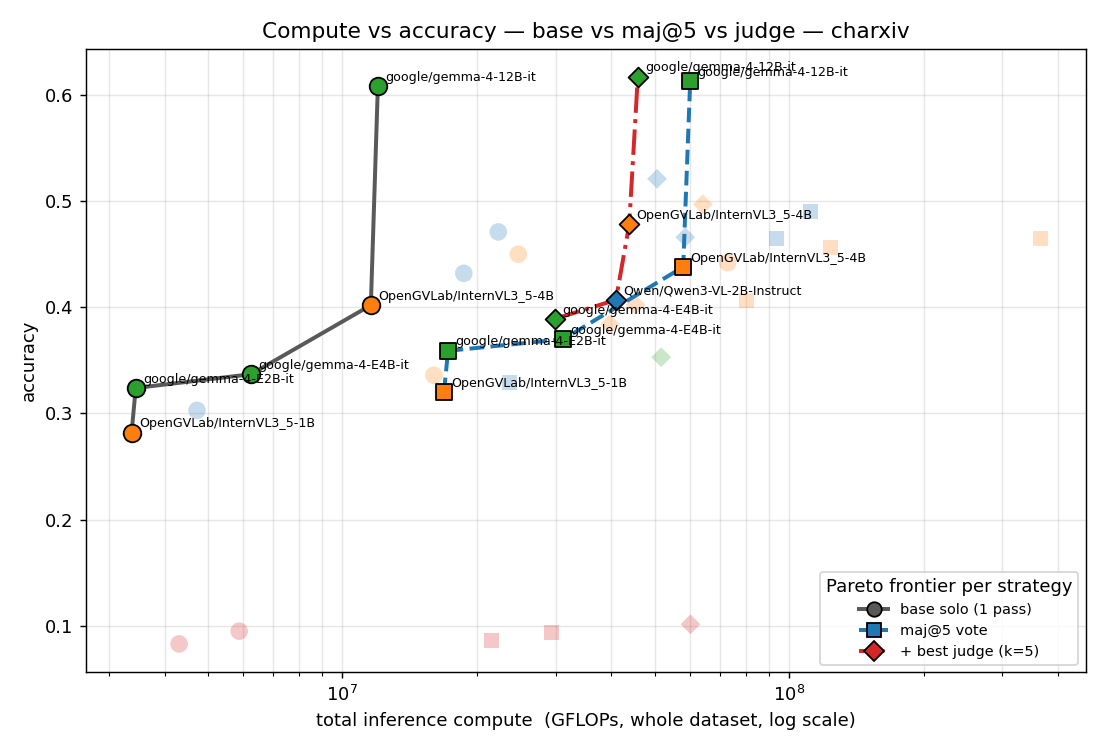
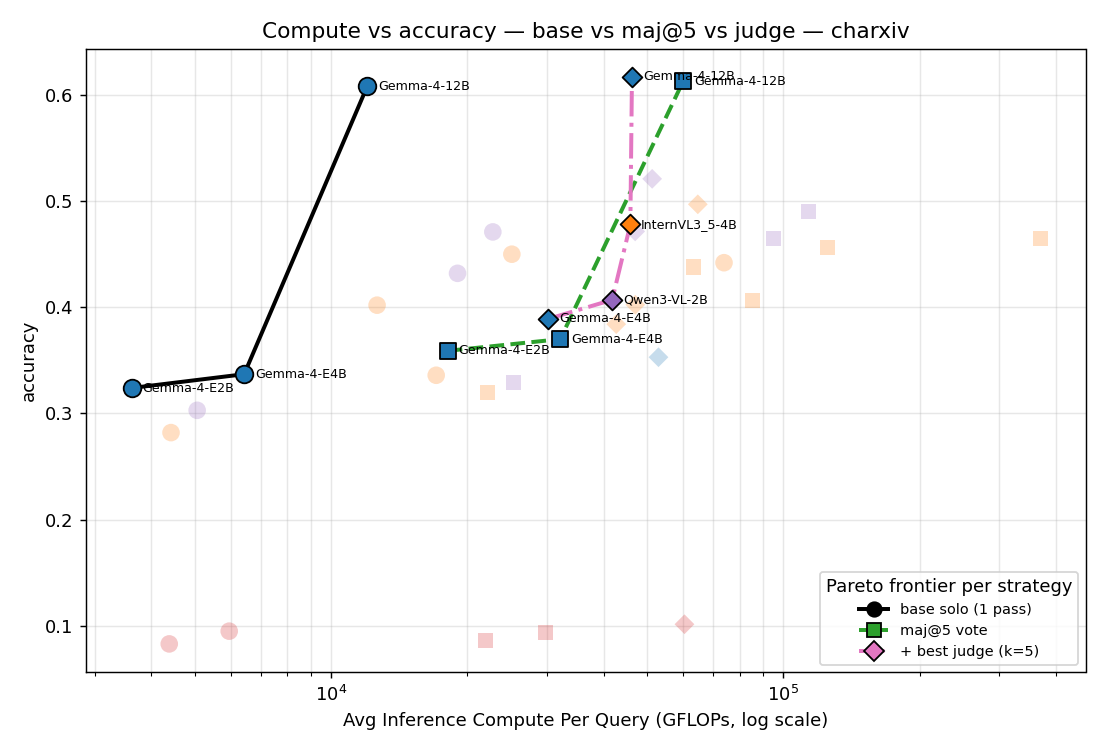
update compute pareto curves

diff --git a/vlm/vision_flops.py b/vlm/vision_flops.py
@@ -1,0 +1,192 @@
+#!/usr/bin/env python3
+"""Vision-encoder FLOP accounting, to complement the LLM-side `solver_gflops`.
+
+The existing compute number prices every token (text + image-placeholder + generated) at
+`2 * llm_params_B`. That captures the LLM decoder's cost of *attending over* image tokens, but
+NOT the vision encoder's own forward pass, which runs the raw image patches through a ViT before
+the LLM ever sees them. Ignoring it biases the comparison against models with a big encoder or
+aggressive image tiling (many patches) relative to their LLM. This module adds that term:
+
+    vision_gflops = vit_params_B * num_vit_patches * 2      (per image, per encode)
+
+Two ingredients, both measured from the *actual* local artifacts (no hand-typed guesses):
+  * `vit_params(model)`      — summed from the model's safetensors headers (vision tower only).
+  * `patches_per_image(ds)`  — avg ViT sequence length, by running each model's real HF image
+                               processor over a sample of that dataset's images (captures
+                               dynamic-resolution / tiling differences across families).
+
+Results are cached to vlm/result/vision_flops.json so the tradeoff scripts read them cheaply.
+
+Run once to (re)build the cache:  .venv-vllm/bin/python vlm/vision_flops.py
+"""
+import json, os, struct, glob, sys, random
+
+HERE = os.path.dirname(os.path.abspath(__file__))
+CACHE = os.path.join(HERE, "result", "vision_flops.json")
+HF_HUB = os.path.expanduser("~/.cache/huggingface/hub")
+
+# tensor-name substrings that identify the vision *encoder* (exclude the mm projector, which is
+# a small LLM-side adapter, not part of the ViT forward pass we're pricing).
+VIS_MATCH = ("visual", "vision_tower", "vision_model")
+VIS_EXCLUDE = ("projector", "mlp1", "merger")   # merger/projector map ViT->LLM dim, priced LLM-side
+
+# HF repo id per short solver_model key used in MODEL_SIZES (rejection_sampling.py).
+DTYPE_BYTES = {"F32": 4, "F16": 2, "BF16": 2, "F64": 8, "I64": 8, "I32": 4, "I16": 2, "I8": 1,
+               "U8": 1, "BOOL": 1, "F8_E4M3": 1, "F8_E5M2": 1}
+
+
+def _snapshot_dir(repo_id):
+    d = os.path.join(HF_HUB, "models--" + repo_id.replace("/", "--"), "snapshots")
+    snaps = sorted(glob.glob(os.path.join(d, "*")))
+    return snaps[-1] if snaps else None
+
+
+def _iter_safetensors_header(path):
+    """Yield (name, dtype, shape) for every tensor in a .safetensors file, reading only the
+    JSON header (no weights loaded)."""
+    with open(path, "rb") as f:
+        n = struct.unpack("<Q", f.read(8))[0]
+        hdr = json.loads(f.read(n))
+    for name, meta in hdr.items():
+        if name == "__metadata__":
+            continue
+        yield name, meta["dtype"], meta["shape"]
+
+
+def vit_params(repo_id):
+    """Total vision-encoder parameter count (in billions) for a local model, from safetensors headers."""
+    snap = _snapshot_dir(repo_id)
+    if not snap:
+        return None
+    files = glob.glob(os.path.join(snap, "*.safetensors"))
+    if not files:
+        return None
+    total = 0
+    for fp in files:
+        for name, _dt, shape in _iter_safetensors_header(fp):
+            if any(m in name for m in VIS_MATCH) and not any(x in name for x in VIS_EXCLUDE):
+                numel = 1
+                for s in shape:
+                    numel *= s
+                total += numel
+    return total / 1e9
+
+
+# ---- patch counting: run the real processor over dataset images -----------------------------
+
+def _count_vit_patches(ip, image):
+    """Number of patches the ViT actually processes for one image, from the image processor
+    output alone (bypasses the full processor's text/image-token validation)."""
+    import numpy as np
+    kw = {}
+    if getattr(ip, "crop_to_patches", None) is False:   # InternVL: reproduce dynamic tiling
+        kw["crop_to_patches"] = True                    # (max_patches uses the processor default)
+    out = ip(images=image, return_tensors="np", **kw)
+    # Qwen family exposes an explicit patch grid.
+    if "image_grid_thw" in out:
+        g = np.array(out["image_grid_thw"]).reshape(-1, 3)
+        return int(g.prod(axis=1).sum())                # t*h*w summed over images
+    pv = np.array(out["pixel_values"])
+    if pv.ndim == 3:                                    # gemma: [crops, num_patches, patch_dim]
+        return int(pv.shape[0] * pv.shape[1])          # already patchified -> patches = crops*npatch
+    if pv.ndim == 5:                                    # [batch, tiles, C, H, W]
+        pv = pv.reshape((-1,) + pv.shape[-3:])
+    if pv.ndim != 4:                                    # [tiles, C, H, W]
+        return None
+    tiles, _c, h, w = pv.shape
+    ps = _patch_size(ip)
+    return int(tiles * (h // ps) * (w // ps))
+
+
+def _patch_size(ip):
+    v = getattr(ip, "patch_size", None)
+    if isinstance(v, int):
+        return v
+    if isinstance(v, dict):                 # some processors store {'height':..,'width':..}
+        return v.get("height", 14)
+    return 14   # CLIP/SigLIP default
+
+
+def patches_per_image(repo_id, image_paths, sample=160, seed=0):
+    """Average ViT patch count per image over a random sample of the given dataset images."""
+    from transformers import AutoImageProcessor
+    from PIL import Image
+    ip = AutoImageProcessor.from_pretrained(repo_id, trust_remote_code=True)
+    rng = random.Random(seed)
+    paths = list(image_paths)
+    rng.shuffle(paths)
+    paths = paths[:sample]
+    counts = []
+    for p in paths:
+        try:
+            img = Image.open(p).convert("RGB")
+            n = _count_vit_patches(ip, img)
+            if n:
+                counts.append(n)
+        except Exception as e:                          # noqa: BLE001
+            print(f"    ! {os.path.basename(p)}: {e}", file=sys.stderr)
+    return sum(counts) / len(counts) if counts else None
+
+
+def _dataset_images(ds):
+    meta = os.path.join(HERE, "..", "data", ds, "metadata.jsonl")
+    root = os.path.dirname(meta)
+    paths = []
+    for line in open(meta):
+        r = json.loads(line)
+        paths.append(os.path.abspath(os.path.join(root, r["image"])))
+    return paths
+
+
+def load_cache():
+    if os.path.exists(CACHE):
+        return json.load(open(CACHE))
+    return {}
+
+
+def build(datasets=("charxiv", "countbench")):
+    """Measure vit_params + patches_per_image for every model in MODEL_SIZES; cache to disk."""
+    sys.path.insert(0, HERE)
+    from rejection_sampling import MODEL_SIZES
+    cache = load_cache()
+    imgs = {ds: _dataset_images(ds) for ds in datasets}
+    for repo_id in MODEL_SIZES:
+        rec = cache.get(repo_id, {})
+        if "vit_params_B" not in rec:
+            vp = vit_params(repo_id)
+            rec["vit_params_B"] = vp
+            print(f"[{repo_id}] vit_params = {vp and round(vp,4)} B")
+        rec.setdefault("patches", {})
+        for ds in datasets:
+            if ds in rec["patches"]:
+                continue
+            print(f"[{repo_id}] measuring patches on {ds} ...")
+            try:
+                n = patches_per_image(repo_id, imgs[ds])
+            except Exception as e:                       # noqa: BLE001
+                print(f"    ! processor failed: {e}", file=sys.stderr)
+                n = None
+            rec["patches"][ds] = n
+            print(f"    -> {n and round(n,1)} patches/image")
+        cache[repo_id] = rec
+        os.makedirs(os.path.dirname(CACHE), exist_ok=True)
+        json.dump(cache, open(CACHE, "w"), indent=2)
+    return cache
+
+
+def vision_gflops_total(repo_id, ds, n_problems, cache=None):
+    """Total vision-encoder GFLOPs to encode the whole dataset once (one pass over all images)."""
+    cache = cache or load_cache()
+    rec = cache.get(repo_id)
+    if not rec:
+        return None
+    vp = rec.get("vit_params_B")
+    pat = (rec.get("patches") or {}).get(ds)
+    if vp is None or pat is None:        # vp == 0.0 is valid: unified model, no separate ViT
+        return None
+    return vp * pat * 2 * n_problems
+
+
+if __name__ == "__main__":
+    build()
+    print(f"\nwrote {CACHE}")

diff --git a/vlm/combined_tradeoff.py b/vlm/combined_tradeoff.py
@@ -11,7 +11,7 @@ The three are joined per model; the red line is the Pareto frontier over everyth
 Writes report/figures/tradeoff/{ds}_combined_tradeoff.png (+ an 'avg'). Run:
   .venv/bin/python vlm/combined_tradeoff.py
 """
-import os, sys
+import os, sys, json, glob
 import matplotlib
 matplotlib.use("Agg")
 import matplotlib.pyplot as plt
@@ -27,11 +27,22 @@ FIGDIR = "report/figures/tradeoff"
 name = T.name
 
 
+def n_queries(ds):
+    """number of problems (queries) in the dataset, from any run's metadata."""
+    for f in glob.glob(f"vlm/result/self_consistency/{ds}/*/metrics.json"):
+        md = json.load(open(f)).get("metadata", {})
+        if md.get("n_problems"):
+            return md["n_problems"]
+    return None
+
+
 def collect(ds):
-    """model -> dict(base=(g,a), maj5=(g,a) or None, judge=(g,a) or None)."""
+    """model -> dict(base=(g,a), maj5=(g,a) or None, judge=(g,a) or None).
+    Compute is normalized to per-query GFLOPs (whole-dataset GFLOPs / n_problems)."""
     _, pipes = T.collect(ds)                 # canonical-priced judge pipelines
     best = T.best_judge(pipes)               # solver -> (gflops, acc, verifier)
     maj = MJ.collect(ds)                      # model -> [(compute, acc), ...] k=1..N
+    nq = n_queries(ds) or 1                   # -> per-query average compute
     out = {}
     for m, curve in maj.items():
         base = curve[0]                      # (C[m], maj@1)
@@ -39,23 +50,26 @@ def collect(ds):
         rec = dict(base=base, maj5=maj5, judge=None)
         if m in best:
             rec["judge"] = (best[m][0], best[m][1])
+        for k, v in rec.items():             # whole-dataset GFLOPs -> per-query
+            if v is not None:
+                rec[k] = (v[0] / nq, v[1])
         out[m] = rec
     return out
 
 
 STRAT = [   # key,     marker, size, frontier color, style, legend label
-    # frontier lines kept neutral (dark grey) & distinguished by dash style, so they don't
-    # clash with the fixed family colors (Qwen purple / gemma blue / InternVL orange / llava red)
-    ("base",  "o", 95, "0.15", "-",  "base solo (1 pass)"),
-    ("maj5",  "s", 70, "0.15", "--", "maj@5 vote"),
-    ("judge", "D", 60, "0.15", "-.", "+ best judge (k=5)"),
+    # each strategy's Pareto frontier gets its own line color. These are deliberately chosen to
+    # avoid the family marker palette (Qwen purple / gemma blue / InternVL orange / llava red /
+    # grey) -- black, green, magenta don't collide with any of them. Dash style is kept too.
+    ("base",  "o", 95, "#000000", "-",  "base solo (1 pass)"),
+    ("maj5",  "s", 70, "#2ca02c", "--", "maj@5 vote"),
+    ("judge", "D", 60, "#e377c2", "-.", "+ best judge (k=5)"),
 ]
 FADED, FULL = 0.25, 1.0
 
 
 def render(ds, data, title=None):
     fig, ax = plt.subplots(figsize=(8.5, 5.8))
-    cmap = plt.get_cmap("tab10")
     order = sorted(data, key=lambda m: (R.FAM_ORDER.get(R.family(m), 4), R.size(m)))
 
     # which models sit on each strategy's Pareto frontier
@@ -73,11 +87,10 @@ def render(ds, data, title=None):
                 continue
             on = m in onfr
             ax.scatter(v[0], v[1], s=sz, marker=mk, alpha=FULL if on else FADED,
-                       zorder=5 if on else 3,
-                       color=cmap(R.FAM_ORDER.get(R.family(m), 4)),
+                       zorder=5 if on else 3, color=T.fam_color(m),
                        edgecolor="k" if on else "none")
             if on:                        # label only the models on this frontier
-                ax.annotate(name(m), v, fontsize=7, xytext=(4, 3),
+                ax.annotate(name(m), v, fontsize=7, xytext=(6, 0), va="center",
                             textcoords="offset points", zorder=6)
 
     # draw the three frontier lines
@@ -88,7 +101,7 @@ def render(ds, data, title=None):
         handles.append(Line2D([], [], marker=mk, color=col, ls=ls, mec="k", ms=8, lw=2.2, label=lab))
     ax.legend(handles=handles, fontsize=8, loc="lower right", title="Pareto frontier per strategy")
     ax.set_xscale("log")
-    ax.set_xlabel("total inference compute  (GFLOPs, whole dataset, log scale)")
+    ax.set_xlabel("Avg Inference Compute Per Query (GFLOPs, log scale)")
     ax.set_ylabel("accuracy")
     ax.set_title(title or f"Compute vs accuracy — base vs maj@5 vs judge — {ds}")
     ax.grid(alpha=0.3, which="both")

diff --git a/vlm/compute_tradeoff.py b/vlm/compute_tradeoff.py
@@ -16,15 +16,26 @@ import matplotlib.pyplot as plt
 
 sys.path.insert(0, os.path.dirname(__file__))
 import build_charxiv_report as R
+import vision_flops as VF
+
+# vision-encoder FLOPs (ViT forward pass over image patches) are added on top of the LLM-side
+# solver_gflops. Set VLM_NO_VISION=1 to reproduce the old LLM-only numbers.
+INCLUDE_VISION = os.environ.get("VLM_NO_VISION") != "1"
 
 DATASETS = ["charxiv", "countbench"]
 FIGDIR = "report/figures/tradeoff"
 
 
 def name(m):
-    """full model name with the lab/org prefix stripped (e.g. 'gemma-4-12B-it',
-    'Qwen3-VL-8B-Instruct', 'InternVL3_5-1B', 'llava-1.5-7b-hf')."""
-    return m.split("/", 1)[-1]
+    """full model name, lab/org prefix and the -it/-Instruct suffix stripped
+    (e.g. 'gemma-4-12B', 'Qwen3-VL-8B', 'InternVL3_5-1B', 'llava-1.5-7b-hf')."""
+    n = m.split("/", 1)[-1]
+    for suf in ("-Instruct", "-it"):
+        if n.endswith(suf):
+            n = n[:-len(suf)]
+    if n.startswith("gemma"):          # display as 'Gemma-...'
+        n = "G" + n[1:]
+    return n
 
 
 FAM_COLOR = {"qwen-vl": "#9467bd", "gemma": "#1f77b4", "internvl": "#ff7f0e",
@@ -36,15 +47,24 @@ def fam_color(m):
     return FAM_COLOR.get(R.family(m), FAM_COLOR["other"])
 
 
-def canonical_cost(ds):
-    """One canonical single-pass FLOP cost per model = self-consistency solver_gflops / n_samples.
+def canonical_cost(ds, include_vision=INCLUDE_VISION):
+    """One canonical single-pass FLOP cost per model. LLM side = solver_gflops / n_samples.
+    Vision side = (vit_params * patches * 2 * n_problems) / n_samples, amortized over the samples
+    exactly like the prompt tokens (the image is encoded once per request, reused across samples).
     Same anchor used by the maj@n plot, so 'solo' lines up across both figures. Returns {model: C}."""
+    vcache = VF.load_cache() if include_vision else {}
     C = {}
     for f in glob.glob(f"vlm/result/self_consistency/{ds}/*/metrics.json"):
         d = json.load(open(f)); md = d.get("metadata", {})
         g, n = md.get("solver_gflops"), md.get("n_samples")
-        if g and n:
-            C[md["solver_model"]] = g / n
+        if not (g and n):
+            continue
+        c = g / n
+        if include_vision:
+            vt = VF.vision_gflops_total(md["solver_model"], ds, md.get("n_problems"), vcache)
+            if vt:
+                c += vt / n
+        C[md["solver_model"]] = c
     return C
 
 

diff --git a/vlm/maj_tradeoff.py b/vlm/maj_tradeoff.py
@@ -30,18 +30,17 @@ def name(m):
 
 def collect(ds):
     """model -> list of (compute_gflops, acc) for k=1..min(N,NMAX)."""
+    per_model = T.canonical_cost(ds)      # single-pass cost incl. vision, shared with the other plots
     out = {}
     for f in glob.glob(f"vlm/result/self_consistency/{ds}/*/metrics.json"):
         d = json.load(open(f))
         mk = d.get("maj_at_k") or []
         md = d.get("metadata", {})
-        n = md.get("n_samples") or len(mk)
-        g = md.get("solver_gflops")
-        if not mk or not g or not n:
-            continue
-        per = g / n                       # FLOPs for one sample over the whole dataset
-        kmax = min(len(mk), NMAX)
         m = md.get("solver_model", os.path.basename(os.path.dirname(f)))
+        per = per_model.get(m)            # FLOPs for one sample over the whole dataset (+vision)
+        if not mk or not per:
+            continue
+        kmax = min(len(mk), NMAX)
         out[m] = [((k + 1) * per, mk[k]) for k in range(kmax)]
     return out
 
